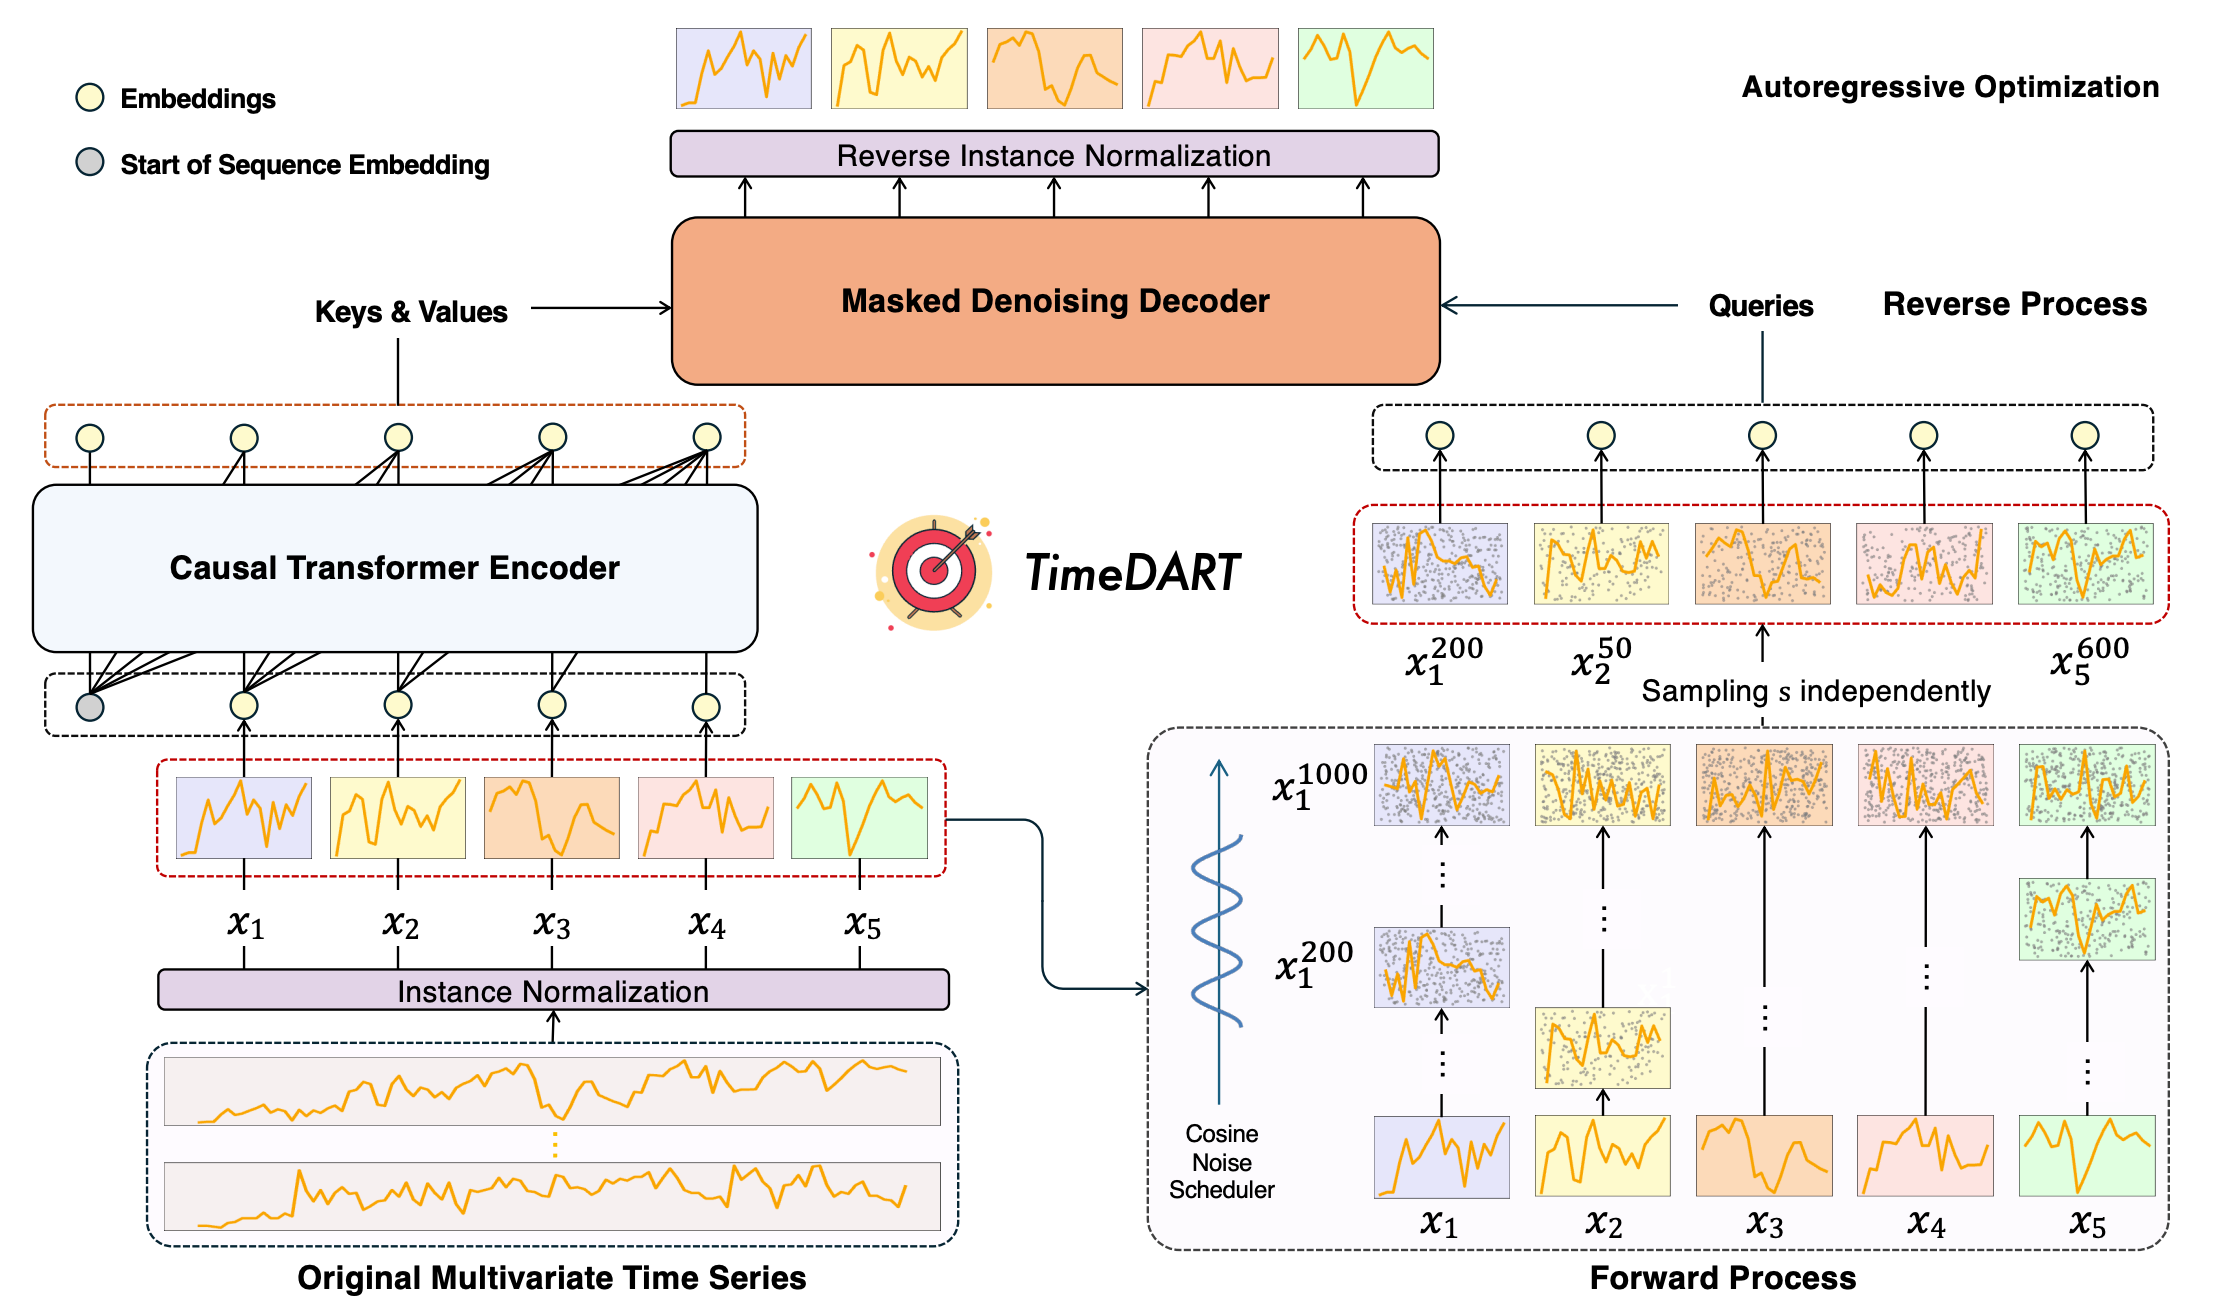
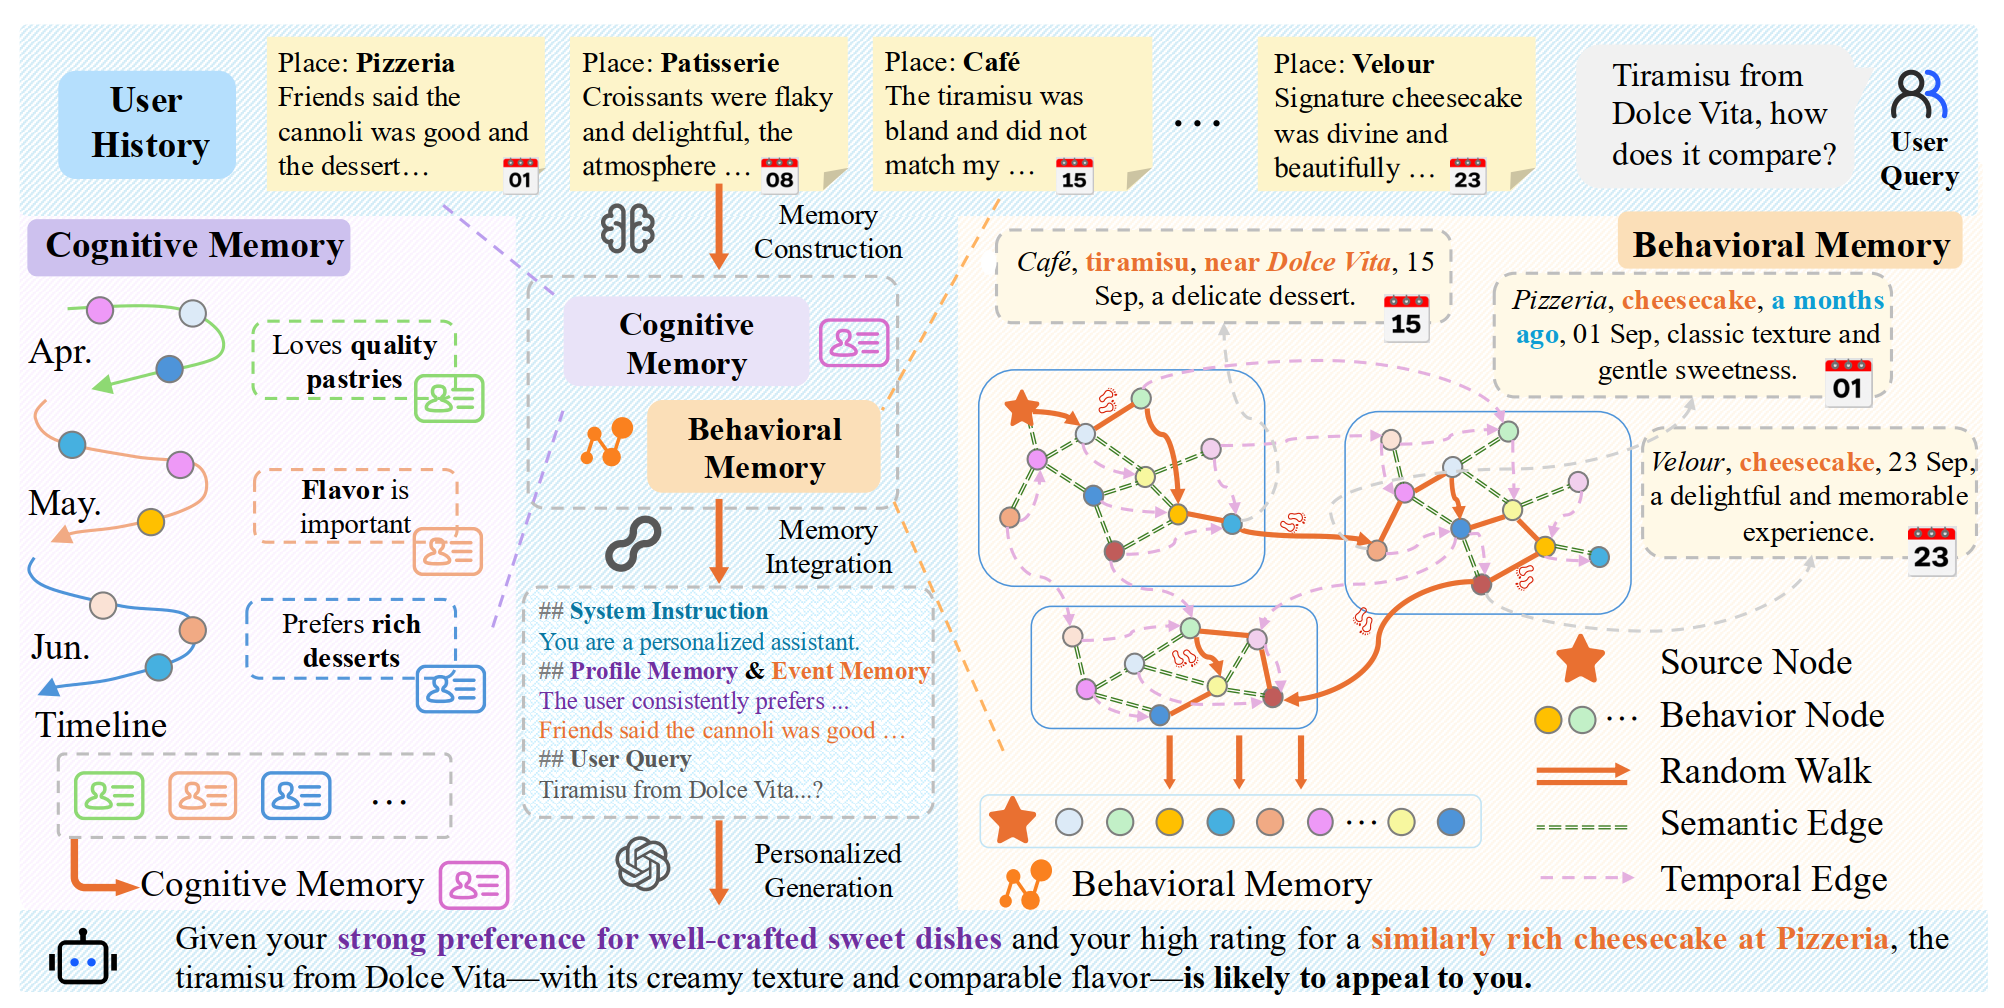
update

diff --git a/index.html b/index.html
@@ -3,16 +3,16 @@
 <head>
     <meta charset="UTF-8">
     <meta name="viewport" content="width=device-width, initial-scale=1.0">
-    <meta name="description" content="Daoyu Wang - CS Master Student at USTC, researching AI Agents and Time Series Analysis">
-    <meta name="keywords" content="Daoyu Wang, Computer Science, USTC, AI Agents, Time Series, Machine Learning, Scientific Agents, RAG, ICML, CIKM">
-    <meta name="author" content="Daoyu Wang">
-    <meta property="og:title" content="Daoyu Wang - Academic Homepage">
-    <meta property="og:description" content="CS Master Student at USTC, researching AI Agents and Time Series Analysis">
+    <meta name="description" content="Shuo Yu - AI & Data Science Master Student at USTC, researching LLM Memory, Personalized LLM and RAG">
+    <meta name="keywords" content="Shuo Yu, AI, USTC, AI Agents, Memory, Machine Learning,  RAG,  CIKM">
+    <meta name="author" content="Shuo Yu">
+    <meta property="og:title" content="Shuo Yu - Academic Homepage">
+    <meta property="og:description" content="AI & Data Science Master Student at USTC, researching LLM Memory, Personalized LLM and RAG">
     <meta property="og:type" content="website">
-    <meta property="og:url" content="https://melmaphother.github.io/">
+    <meta property="og:url" content="https://fishsure.github.io/">
     <meta name="twitter:card" content="summary">
-    <meta name="twitter:creator" content="@melmaphother">
-    <title>Daoyu Wang - Academic Homepage</title>
+    <meta name="twitter:creator" content="@fishsure">
+    <title>Shuo Yu - Academic Homepage</title>
     <!-- Favicon for different devices -->
     <link rel="icon" type="image/x-icon" href="images/favicon/favicon.ico">
     <link rel="icon" type="image/png" sizes="32x32" href="images/favicon/favicon-32x32.png">
@@ -26,32 +26,31 @@
 <body id="top">
     <header>
         <div class="header-content">
-            <h1>Daoyu Wang (王道宇)</h1>
-            <p>CS Master Student • University of Science and Technology of China</p>
+            <h1>Shuo Yu (于硕)</h1>
+            <p>AI & Data Science Master Student • University of Science and Technology of China</p>
             <div class="social-links-header">
-                <a href="https://scholar.google.com/citations?user=uM4iaOUAAAAJ&hl=zh-CN"><i class="fas fa-graduation-cap"></i>Google Scholar</a>
-                <a href="https://github.com/melmaphother"><i class="fab fa-github"></i>GitHub</a>
-                <a href="https://www.linkedin.com/in/%E9%81%93%E5%AE%87-%E7%8E%8B-949329340/"><i class="fab fa-linkedin"></i>LinkedIn</a>
-                <a href="mailto:daoyu.wang@mail.ustc.edu.cn"><i class="fas fa-envelope"></i>Email</a>
+                <a href="https://scholar.google.com/citations?hl=zh-CN&user=S-cZqlAAAAAJ"><i class="fas fa-graduation-cap"></i>Google Scholar</a>
+                <a href="https://github.com/fishsure"><i class="fab fa-github"></i>GitHub</a>
+                <a href="mailto:yu12345@mail.ustc.edu.cn"><i class="fas fa-envelope"></i>Email</a>
             </div>
         </div>
         <div class="header-image">
-            <img src="images/profile.png" alt="Profile Photo">
+            <img src="images/profile.jpg" alt="Profile Photo">
         </div>
     </header>
 
     <main>
         <section id="about">
-            <p>Hi! This is Daoyu Wang, a Master student in Computer Science at State Key Laboratory of Cognitive Intelligence, University of Science and Technology of China (USTC). I am advised by Prof. <a href="http://staff.ustc.edu.cn/~qiliuql/">Qi Liu</a> and Associate Researcher <a href="https://mingyue-cheng.github.io/">Mingyue Cheng</a>.</p>
+            <p>Hi! This is Shuo Yu, a Master student in Artificial Intelligence and Data Science at University of Science and Technology of China (USTC). I am advised by Prof. <a href="http://staff.ustc.edu.cn/~qiliuql/">Qi Liu</a> and currently working with Associate Researcher <a href="https://mingyue-cheng.github.io/">Mingyue Cheng</a>.</p>
         </section>
 
         <section id="research-interest">
             <h2>Research Interest</h2>
-            <p>My research focuses on <strong>large language models and agents</strong>, with broader interests in <strong>machine learning</strong>, <strong>multimodal understanding and generation</strong>. My recent works explore:</p>
+            <p>My research focuses on <strong>large language models and their applications</strong>, with particular emphasis on:</p>
             <ul>
-                <li>Agentic reasoning on scientific literature</li>
-                <li>Retrieval-augmented generation with LLMs</li>
-                <li>Generative models for time series analysis</li>
+                <li><strong>LLM Memory</strong> - Developing memory mechanisms for large language models</li>
+                <li><strong>Personalized LLM</strong> - Creating personalized and adaptive language models</li>
+                <li><strong>Retrieval-Augmented Generation (RAG)</strong> - Enhancing LLMs with external knowledge retrieval</li>
             </ul>
         </section>
 
@@ -77,13 +76,17 @@
 
         <section id="awards">
             <h2>Awards</h2>
-            <div class="award-item">
-                <span class="award-year">2025</span>
-                <div class="award-desc">Outstanding Graduate, USTC</div>
+            <div class="award-item" style="background-color: #fff3cd; border-left: 4px solid #ffc107; padding: 15px; margin: 10px 0;">
+                <span class="award-year">2024</span>
+                <div class="award-desc"><strong>National Scholarship</strong></div>
             </div>
             <div class="award-item">
                 <span class="award-year">2025</span>
-                <div class="award-desc">Outstanding Student Scholarship Gold Award, USTC</div>
+                <div class="award-desc">Outstanding Graduate of Anhui Province</div>
+            </div>
+            <div class="award-item">
+                <span class="award-year">2025</span>
+                <div class="award-desc">Outstanding Graduate, USTC</div>
             </div>
             <div class="award-item">
                 <span class="award-year">2024</span>
@@ -96,9 +99,9 @@
             <div class="award-item">
                 <span class="award-year">Sep. 2025 ~ Present</span>
                 <div class="award-desc">
-                    <strong>Master in Computer Science</strong><br>
-                    <a href="https://www.ustc.edu.cn/">University of Science and Technology of China</a>, <a href="https://cogskl.iflytek.com/">State Key Laboratory of Cognitive Intelligence</a><br>
-                    <small>Advisors: <a href="http://staff.ustc.edu.cn/~qiliuql/">Prof. Qi Liu</a>, <a href="https://mingyue-cheng.github.io/">Associate Researcher Mingyue Cheng</a></small>
+                    <strong>Master in Artificial Intelligence and Data Science</strong><br>
+                    <a href="https://www.ustc.edu.cn/">University of Science and Technology of China</a>, School of Artificial Intelligence and Data Science<br>
+                    <small>Advisor: <a href="http://staff.ustc.edu.cn/~qiliuql/">Prof. Qi Liu</a> | Currently working with: <a href="https://mingyue-cheng.github.io/">Associate Researcher Mingyue Cheng</a></small>
                 </div>
             </div>
             <div class="award-item">

diff --git a/scripts.js b/scripts.js
@@ -114,7 +114,7 @@ function createPublicationElement(publication) {
   // Format authors with highlighting
   let authorsHTML = '';
   publication.authors.forEach((author, index) => {
-    if (author.includes('Daoyu Wang')) {
+    if (author.includes('Shuo Yu')) {
       authorsHTML += `<span class="highlight-name">${author}</span>`;
     } else {
       authorsHTML += author;
@@ -295,7 +295,7 @@ function createProjectElement(project) {
   // Format authors with highlighting
   let authorsHTML = '';
   project.authors.forEach((author, index) => {
-    if (author.includes('Daoyu Wang')) {
+    if (author.includes('Shuo Yu')) {
       authorsHTML += `<span class="highlight-name">${author}</span>`;
     } else {
       authorsHTML += author;

diff --git a/README.md b/README.md
@@ -1,5 +1,5 @@
-# Daoyu Wang's Homepage
+# Shuo Yu's Homepage
 
-Academic homepage for Daoyu Wang.
+Academic homepage for Shuo Yu.
 
-Visit: [https://melmaphother.github.io](https://melmaphother.github.io)
+Visit: [https://fishsure.github.io](https://fishsure.github.io)
